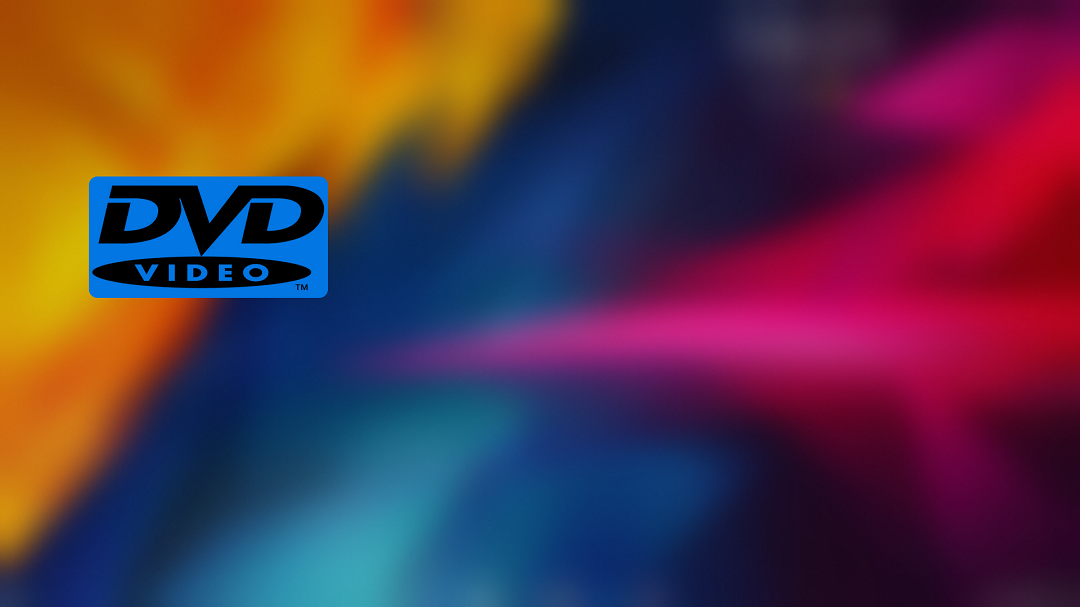
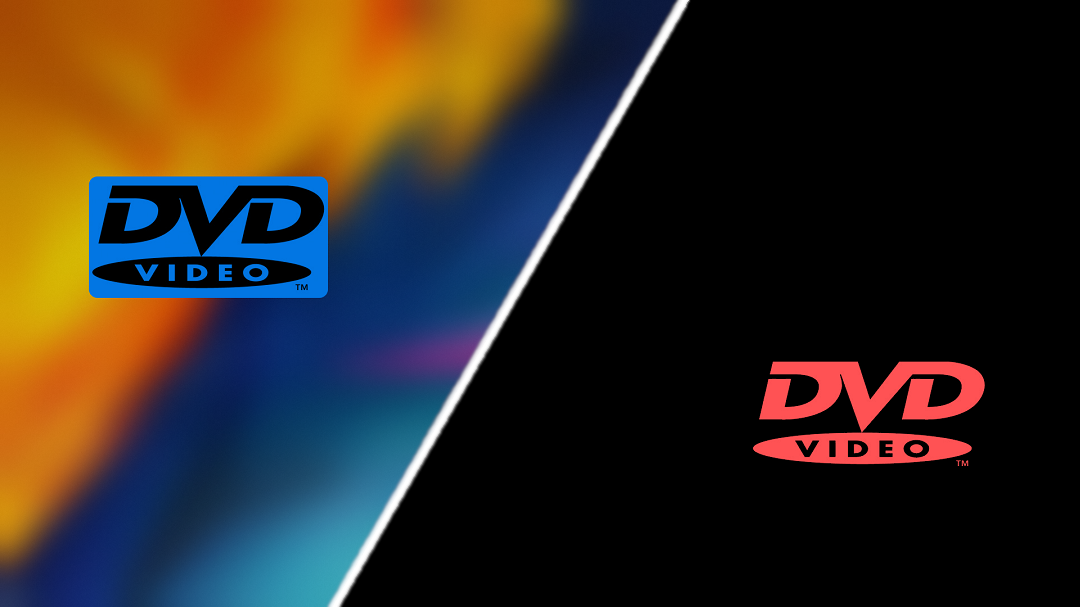
v1.0.0

diff --git a/README.md b/README.md
@@ -1,6 +1,6 @@
 # BouncyDVD
 
-[![](rainmeter.png)](https://www.rainmeter.net/)
+[![](img/rainmeter.png)](https://www.rainmeter.net/)
 
 
 
@@ -8,15 +8,14 @@ BouncyDVD is a Rainmeter based skin that simulates the bouncing dvd logo screens
 
 
 ## Overview
-
-  ![](img/dvd.png) ![](img/dvd1.png) ![](img/dvd2.png)
+![](img/dvd2.png)
 ## Features
 
-  - Use BouncyDVD as screensaver with the autodetect idle of your PC ( default is 120 seconds)
-  - Shortcuts to lock/unlock into the screensaver ( shortcuts can be changed )
-  - Customize the logo between 5 styles (squarish+inverted, rounded+inverted and transparent )
-  - Customize the background between 5 styles (transparent, acrylic , blur, semiransparent and filled)
-  - Change the color of the logo for each side of bounce
+- Use BouncyDVD as screensaver with the autodetect idle of your PC ( default is 120 seconds)
+- Shortcuts to lock/unlock into the screensaver ( shortcuts can be changed )
+- Customize the logo between 5 styles (squarish+inverted, rounded+inverted and transparent )
+- Customize the background between 5 styles (transparent, acrylic , blur, semiransparent and filled)
+- Change the color of the logo for each side of bounce
 
 ## Installation
 
@@ -25,27 +24,38 @@ There are 2 important steps needed to use a Skin with Rainmeter
 1 - [How to install Rainmeter](https://docs.rainmeter.net/manual/installing-rainmeter/)
 2 - [How to install Skins](https://docs.rainmeter.net/manual/installing-skins/)
 
-For the second step you need the skin file wich have extension *.rmskin*
+For the second step you need the skin file wich have extension **.rmskin**
 So you have to download the latest skin file of BouncyDVD available in [Releases](https://github.com/d3ward/bouncydvd/releases)
+
+## How to use & Update
+After you installed the skin , bouncyDVD is started working in background .
+It can works on 2 ways, there is detection of idle and after 120 seconds you will see the bouncing logo or use the shortcut **ALT+L** to force the lock mode ( **ALT+U** to unlock )
+You can customize the logo , background , colors , idletime and shortcuts by reaching the settings.
+
+When on locked mode right click with the mouse to see the contextual menu , then "Open Settings" or you can open settings by loading the skin 'UISettings' in Rainmeter
+
+New updates will be released here on github , just download the latest file from "*Releases*" , if you want to be notified you can add to *watching* list  the repo 
+
+*This skin is not intended to be used as a true lockscreen, for that you can use W+L for a true lockscreen of Windows where it require a password*
 
 ## Contributing & Support 
 If you want , you can contribute by opening an issue for bugs or a feature.
 
 You can also fork the project and do whatever you want ( Share and Adapt ) as long as you respect the terms in the license
 
-
-
-
 ## Credits
 
  [RainRGB Tool by Jeffrey Morley](https://forum.rainmeter.net/viewtopic.php?f=127&t=6215)
+
  [NoCursor by Jeffrey Morley](https://forum.rainmeter.net/viewtopic.php?p=97898#p97898)
+
  [FrostedGlass Plugin by theAzack9](https://forum.rainmeter.net/viewtopic.php?t=23106) 
 
  Logos edited with [GIMP](https://www.gimp.org/)
  - [Rainmeter Logo](https://forum.rainmeter.net/viewtopic.php?t=28819) 
  - [DVD Logo](https://it.wikipedia.org/wiki/File:DVD_logo.svg) 
  
-## License
+----
 
 This project is under [CC BY-NC-SA 4.0](https://creativecommons.org/licenses/by-nc-sa/4.0/) License
+
